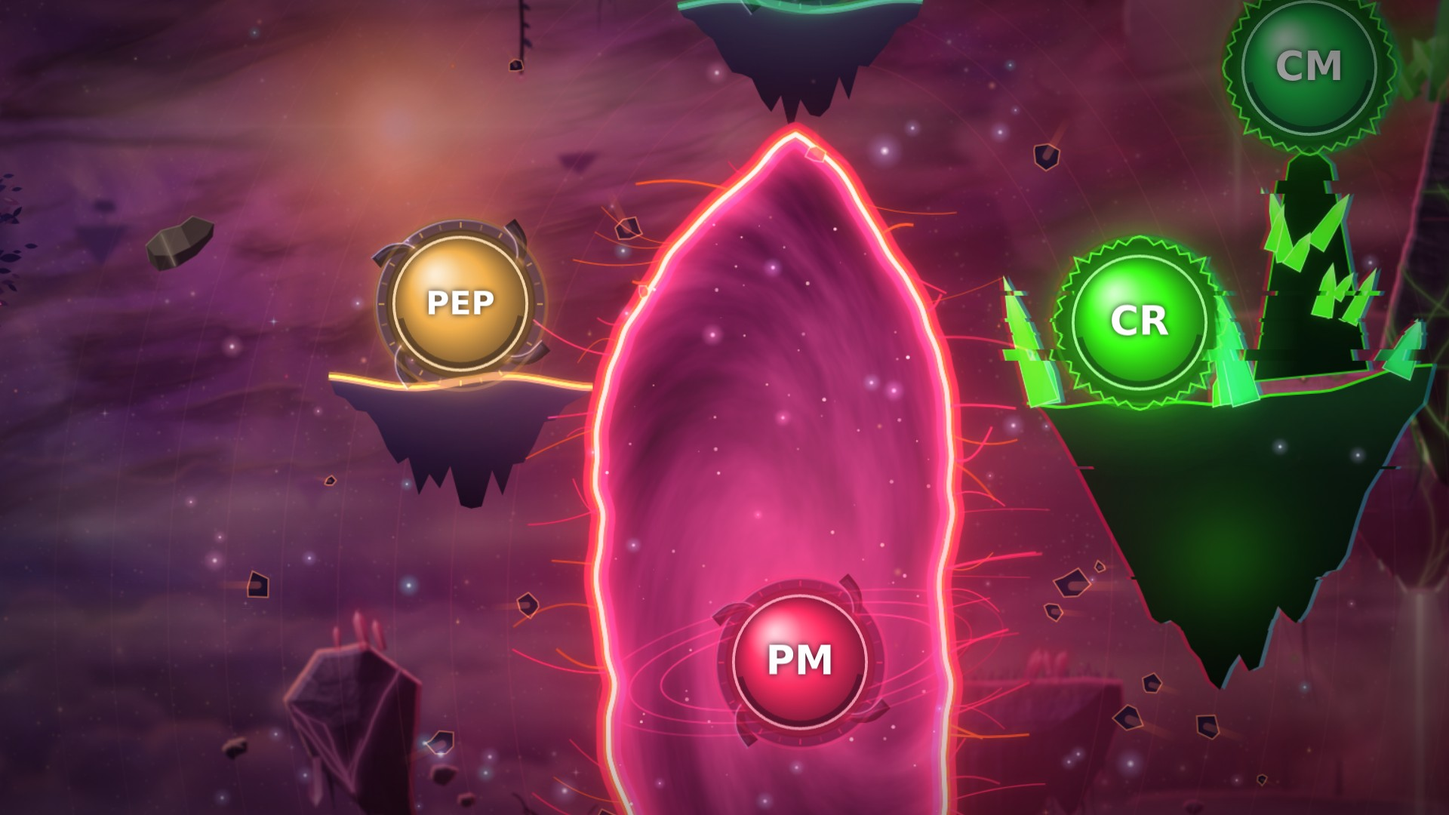
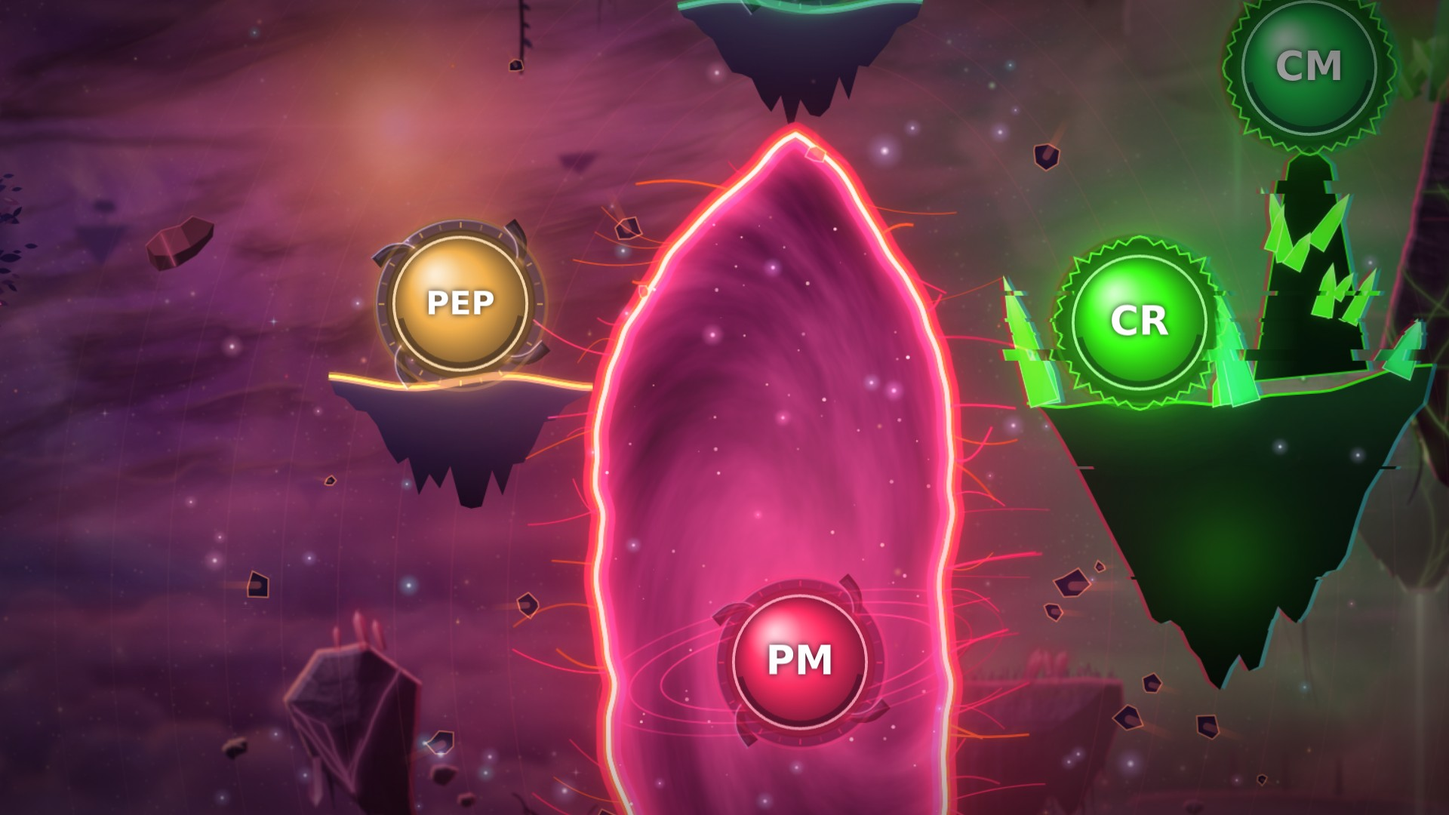
Realm art: mid-layer fix, refreshed stills and recorder (work in progress)
Claude-Session: https://claude.ai/code/session_017gaz6EFqYxd9JEx6jAR1Xy

diff --git a/milestone-tree/art/layers/mid.js b/milestone-tree/art/layers/mid.js
@@ -1,8 +1,10 @@
 // Parallax depth 3, `mid` (f = 0.45): the layer that sells the depth. Seven detailed floating islands (lit rock
 // undersides, hanging roots, glowing crystal seams, tiny trees) pour luminous light-falls from the lightfall sprite
-// anchors, over horizontal mist bands at 55-95 % of the height. The rift side (right) is cracked with crimson seams;
-// the island nearest the corrupted outcrop grows green glitch crystals. The trunk band and the rift cluster (the
-// hard keep-clear zones) hold mist only.
+// anchors, over horizontal mist bands at 55-95 % of the height. No two share a silhouette: a broken twin pouring from
+// its cleft, a natural arch pouring from its keystone, a ruined colonnade under a rock needle, three plain slabs, and
+// the corrupted island. The rift side (right) is cracked with crimson seams; the corrupted island sits where the
+// clamped east-limit cameras see it (under the outcrop's tip), lit green from above. The trunk band and the rift
+// cluster (the hard keep-clear zones) hold mist only.
 // Transparent. Painted at full local size 3360x2160, output at res.HIGH 0.75 -> 2520x1620 (realm.json layers[mid]).
 (function () {
   // ================================================================ ISLAND KIT (begin)
@@ -646,90 +648,294 @@
 
   // Island specs. xL/xR/top: the grassy top line; lobes: hanging cones {x, y tip, w half-width}; the fall anchor is
   // the lip (a flat notch) at the lightfall instance. Positions keep every island out of the hard zones.
+  // Three islands keep the plain slab (A, D, B: far up or half behind the rift). The four the camera sees most each
+  // break it, so the layer never reads as one stamp repeated:
+  //   F  broken twin: a crack splits the slab from the top, the right half has slumped, and the light pours out of the
+  //      cleft between two hanging fangs instead of off a lobe tip
+  //   C  natural arch: the light pours from the keystone down through the arch
+  //   E  a ruined colonnade at the foot of a rock needle, a gold relic light between the columns; the fall spills off
+  //      the island's right edge
+  //   G  the corrupted island (below)
+  // G is placed for the cameras that actually see the corrupt biome. The camera cannot centre on the outcrop: at the
+  // hard east limit it stops at (2880, y, z 1) and (3072, y, z 1.25) on 1920x1080 and (3294, y, z 1.25) on 1366x768,
+  // where this layer shows local x <= 3072 (1920) and <= 2920 (1366), and the world outcrop covers the right third of
+  // the screen. Projected with camera.js localToScreen, the band x 2570-2900, y 1330-1440 is clear of the world at
+  // (2880, 1250, z 1), (2880, 1480, z 1), (3072, 1320, z 1.25) and (3294, 1320, z 1.25), right under the outcrop's
+  // lower tip. G1, the corrupted main mass, fills that band; G2, a raised block (the tall step), holds the fall-6 lip at
+  // its left edge and sits off screen there. The green is light, not paint: dark rock with a green rim on the edges
+  // that face the outcrop (up), green veins and crystals, and debris the corruption lifts off the top.
   const ISLES = [
-    { id: 'F', fall: 5, xL: 235, xR: 915, top: 40, tilt: 0.02, thick: 46, seed: 301, lobes: [{ x: 400, y: 250, w: 165 }, { x: 790, y: 236, w: 125 }, { x: 520, y: 290, w: 170 }],
-      crystals: [[860, 5, 40, [95, 224, 255]]], trees: [[420, 90], [640, 60]], roots: 16 },
+    { id: 'F', fall: 5, xL: 235, xR: 915, top: 40, tilt: 0.02, thick: 46, seed: 301, lobes: [{ x: 330, y: 238, w: 96 }, { x: 852, y: 226, w: 66 }, { x: 440, y: 200, w: 120 }],
+      shape: 'twin', crack: 600, crystals: [[860, 5, 40, [95, 224, 255]], [300, 3, 26, [179, 92, 255]]], trees: [[420, 92], [700, 62, null, 0.12]], roots: 16 },
     { id: 'A', fall: 0, xL: 1712, xR: 2120, top: 20, tilt: -0.01, thick: 40, seed: 302, lobes: [{ x: 1795, y: 176, w: 95 }, { x: 2045, y: 190, w: 85 }],
       crystals: [[2050, 4, 40, [95, 224, 255]]], trees: [[1790, 70]], roots: 10 },
     { id: 'D', fall: 3, xL: 2540, xR: 3130, top: 120, tilt: -0.03, thick: 44, seed: 303, lobes: [{ x: 2655, y: 310, w: 115 }, { x: 2995, y: 336, w: 135 }],
       crystals: [[2640, 5, 48, [232, 70, 190]], [3070, 3, 30, [255, 46, 99]]], trees: [[2880, 84, 'dead']], roots: 14 },
-    { id: 'C', fall: 2, xL: 100, xR: 720, top: 935, tilt: 0.03, thick: 50, seed: 304, lobes: [{ x: 225, y: 1140, w: 125 }, { x: 570, y: 1168, w: 145 }],
-      crystals: [[250, 5, 58, [179, 92, 255]], [640, 3, 34, [95, 224, 255]]], trees: [[430, 104], [520, 66], [160, 54]], roots: 16 },
+    { id: 'C', fall: 2, xL: 118, xR: 700, top: 1085, tilt: 0.02, thick: 58, seed: 304, shape: 'arch',
+      lobes: [{ x: 196, y: 1478, w: 44, p: 1.6 }, { x: 262, y: 1446, w: 30, p: 1.7 }, { x: 548, y: 1512, w: 56, p: 1.6 }, { x: 636, y: 1450, w: 34, p: 1.7 }],
+      crystals: [[196, 5, 50, [179, 92, 255]], [660, 3, 30, [95, 224, 255]]], trees: [[560, 104], [626, 62], [372, 50]], roots: 16 },
     { id: 'E', fall: 4, xL: 780, xR: 1212, top: 1506, tilt: 0.09, thick: 40, seed: 305, lobes: [{ x: 960, y: 1760, w: 175, p: 1.05 }, { x: 850, y: 1660, w: 70 }], anchorSlope: 1.6,
-      crystals: [[880, 4, 42, [255, 201, 60]]], trees: [[1000, 88], [1085, 52]], roots: 12 },
-    { id: 'B', fall: 1, xL: 2195, xR: 2680, top: 1420, tilt: -0.085, thick: 40, seed: 306, lobes: [{ x: 2470, y: 1700, w: 190 }, { x: 2615, y: 1580, w: 80 }],
-      crystals: [[2575, 6, 54, [255, 46, 99]], [2380, 3, 30, [232, 70, 190]]], trees: [[2470, 76, 'dead']], roots: 14 },
-    { id: 'G', fall: 6, xL: 2775, xR: 3345, top: 1040, tilt: 0.02, thick: 46, seed: 307, corrupt: true, lobes: [{ x: 2905, y: 1240, w: 115 }, { x: 3220, y: 1272, w: 135 }],
-      crystals: [[2900, 6, 72, [57, 255, 20]], [3250, 4, 46, [31, 191, 74]]], trees: [[3110, 66, 'dead']], roots: 14 },
+      needle: { x: 822, w: 76, h: 350, lean: -0.05 }, ruin: true, crystals: [], trees: [[1122, 50]], roots: 12 },
+    { id: 'B', fall: 1, xL: 2150, xR: 2560, top: 1420, tilt: -0.075, thick: 40, seed: 306, lobes: [{ x: 2385, y: 1690, w: 160 }, { x: 2512, y: 1585, w: 62 }],
+      crystals: [[2488, 6, 52, [255, 46, 99]], [2350, 3, 30, [232, 70, 190]]], trees: [[2420, 76, 'dead']], roots: 14 },
+    { id: 'G', fall: 6, seed: 307, corrupt: true, xL: 2600, xR: 3330, roots: 16,
+      parts: [
+        { xL: 2600, xR: 2968, top: 1300, tilt: -0.045, thick: 38, jag: 1.5, anchor: false,
+          lobes: [{ x: 2685, y: 1478, w: 92, p: 1.15 }, { x: 2828, y: 1532, w: 118, p: 1.2 }, { x: 2925, y: 1425, w: 42, p: 1.6 }] },
+        { xL: 2930, xR: 3330, top: 1172, tilt: -0.02, thick: 46, seed: 317, anchor: true, anchorSlope: 1.4, droop: 0.02,
+          lobes: [{ x: 2962, y: 1336, w: 46, p: 0.35 }, { x: 3165, y: 1420, w: 125 }, { x: 3292, y: 1335, w: 55 }] }],
+      crystals: [[2664, 5, 44, [57, 255, 20]], [2792, 7, 66, [57, 255, 20]], [2904, 4, 36, [31, 191, 74]], [3232, 4, 42, [57, 255, 20]], [3000, 3, 28, [255, 46, 99]]],
+      trees: [[3120, 70, 'dead']],
+      fragments: [[2698, 1226, 34, 0.35], [2772, 1180, 22, -0.25], [2846, 1216, 15, 0.6], [2735, 1148, 10, 0.1]] },
   ];
 
+  // An island() outline with its top and underside remapped: fTop / fUnder (x, y) -> y (either may be null).
+  function reshape(S, fTop, fUnder) {
+    const topY = fTop ? (x => fTop(x, S.topY(x))) : S.topY;
+    const top = S.top.map(([x]) => [x, topY(x)]);
+    const under = S.under.map(([x, y]) => [x, Math.max(topY(x) + 0.5, fUnder ? fUnder(x, y) : y)]);
+    const underY = x => Math.max(topY(x) + 0.5, fUnder ? fUnder(x, S.underY(x)) : S.underY(x));
+    return { ...S, poly: [...top, ...under], top, under, topY, underY };
+  }
+  // F: a crack from the top at `crack` splits the slab, the right half has slumped; under the lip two fangs hang and
+  // the cleft between them opens downward (walls sloping out), so the light pours from inside the island
+  function twinShape(I, F, S) {
+    const XC = I.crack, nh = Math.max(14, F.s * 0.3), n = makeNoise(I.seed + 40);
+    const slump = x => x > XC ? 7 + (x - XC) * 0.06 : 0;
+    const fTop = (x, y) => y + slump(x) + 170 * Math.pow(Math.max(0, 1 - Math.abs(x - XC) / 30), 1.25);
+    const fUnder = (x, y) => {
+      const d = Math.abs(x - F.x); if (d <= nh) return F.y;
+      y += slump(x);
+      if (d < 175) y = Math.max(y, F.y + 175 * (1 - Math.pow(d / 175, 2.4)) + 16 * n(x / 17, 2.2) * (d / 175));
+      return Math.min(y, F.y + (d - nh) * 1.45 + 6 * n(x / 9, 7.1));
+    };
+    return reshape(S, fTop, fUnder);
+  }
+  // C: two fat legs under the slab and an arch cut between them; the keystone is the lip
+  function archShape(I, F, S) {
+    const nh = Math.max(14, F.s * 0.3), R = 92, RV = 128, n = makeNoise(I.seed + 41), base = I.top + I.thick + 4;
+    const leg = (x, x0, x1, yb) => { if (x <= x0 || x >= x1) return -1e9; const u = Math.abs(2 * (x - x0) / (x1 - x0) - 1); return yb - (yb - base) * Math.pow(u, 3.2); };
+    const fUnder = (x, y) => {
+      const d = Math.abs(x - F.x); if (d <= nh) return F.y;
+      y = Math.max(y, leg(x, 122, 420, 1392 + 22 * fbm(n, x / 38, 3.3, 2)), leg(x, 330, 694, 1420 + 24 * fbm(n, x / 38, 5.1, 2)));
+      if (d < R) y = Math.min(y, F.y + RV * (1 - Math.sqrt(1 - (d / R) * (d / R))) + 3 * n(x / 7, 1.1));
+      return y;
+    };
+    return reshape(S, null, fUnder);
+  }
+  // a rock needle rising from (bx, by): ledges on the flanks, a crooked tip
+  function needle(bx, by, w, h, lean, seed) {
+    const r = rng(seed), L = [], Rt = [], N = 14;
+    for (let i = 0; i < N; i++) {
+      const t = i / N, y = by - h * t, cx = bx + lean * h * t * t + (t > 0.8 ? (t - 0.8) * h * 0.12 : 0);
+      const half = (w / 2) * Math.pow(1 - t, 0.8) * (0.9 + 0.2 * r()) + 2;
+      const lk = i % 4 === 1 ? w * 0.16 * r() : 0, rk = i % 5 === 3 ? w * 0.13 * r() : 0;
+      L.push([cx - half - lk, y + (r() - 0.5) * 5]); Rt.push([cx + half + rk, y + (r() - 0.5) * 7]);
+    }
+    const tip = [bx + lean * h + h * 0.024, by - h];
+    return [...L, tip, ...Rt.reverse()];
+  }
+  // a classical column: plinth, drum shaft, capital; a broken one ends in a jagged break
+  function columnPoly(x, yb, h, w, seed, broken) {
+    const r = rng(seed), hw = w / 2, pl = hw * 1.35, ca = hw * 1.3, yt = yb - h;
+    const left = [[x - pl, yb + 10], [x - pl, yb - 5], [x - hw, yb - 8]], right = [[x + hw, yb - 8], [x + pl, yb - 5], [x + pl, yb + 10]];
+    let top;
+    if (broken) { top = []; for (let i = 0; i <= 5; i++) top.push([x - hw + (2 * hw * i) / 5, yt + (i === 0 || i === 5 ? 4 : 0) + (r() - 0.35) * w * 0.8]); }
+    else top = [[x - hw, yt + 9], [x - ca, yt + 7], [x - ca, yt], [x + ca, yt], [x + ca, yt + 7], [x + hw, yt + 9]];
+    return [...left, ...top, ...right];
+  }
+  const rot = (pts, cx, cy, a) => pts.map(([x, y]) => [cx + (x - cx) * Math.cos(a) - (y - cy) * Math.sin(a), cy + (x - cx) * Math.sin(a) + (y - cy) * Math.cos(a)]);
+  const STONE = { dark: [10, 6, 24], base: [132, 110, 186], rim: [255, 226, 190], key: [255, 214, 150], bounce: [120, 90, 230] };
+  // E: a broken colonnade (two standing columns under a cracked lintel, a snapped column, a stump, a fallen drum) and a
+  // gold relic crystal hovering in the doorway, its light on the column faces
+  function ruin(b, e, chk, S, I) {
+    const stone = (poly, seed, extra = {}) => {
+      const M = K.mass({ poly, seed, pad: 6, bevel: 3, dome: 10, domeK: 0.5, bump: 1.5, bumpScale: 12, facet: 22, facetTilt: 0.25, crackW: 1.2, crack: 0.25,
+        strata: { period: 17, lw: 0.08, dark: 0.45, warp: 1, wl: 60, tilt: 0 }, pal: STONE, amb: 0.1, gamma: 1.4, rimW: 2, rimK: 0.8, keyK: 0.6, bounceK: 0.35, ao: 0.3,
+        riftW: () => 0, warm: 1, warmW: 2.5, ...extra });
+      b.drawImage(M.c, M.x, M.y); if (M.e) e.drawImage(M.e, M.x, M.y); chk.drawImage(M.c, M.x, M.y);
+      return M;
+    };
+    const yb = x => S.topY(x) + 2;
+    const cols = [[902, 98, 17, false], [956, 112, 17, false], [1016, 60, 16, true], [1062, 30, 16, true]];
+    cols.forEach(([x, h, w, br], k) => stone(columnPoly(x, yb(x), h, w, I.seed * 11 + k, br), I.seed * 13 + k));
+    // lintel over the first two, cracked through and sagging at its right end
+    const ly = yb(902) - 112, lint = [[884, ly - 1], [930, ly - 3], [933, ly + 9], [886, ly + 11]], lint2 = rot([[936, ly - 4], [986, ly - 6], [986, ly + 7], [937, ly + 8]], 936, ly, 0.11);
+    stone(lint, I.seed * 17); stone(lint2, I.seed * 17 + 1);
+    // a fallen drum and a toppled shaft lying on the grass
+    stone(rot([[1080, yb(1080) - 12], [1128, yb(1128) - 16], [1130, yb(1130) - 2], [1082, yb(1082) + 2]], 1100, yb(1100), -0.05), I.seed * 19);
+    stone(rot([[846, yb(846) - 10], [870, yb(870) - 12], [872, yb(872)], [848, yb(848) + 1]], 860, yb(860), 0.3), I.seed * 19 + 1);
+    // the relic: a gold crystal hovering in the doorway, and its light on the inner column faces and the ground
+    const rx = 929, ry = yb(929) - 58;
+    blob(e, rx, ry, 46, [255, 201, 60], 0.28); blob(e, rx, yb(929) - 4, 30, [255, 190, 90], 0.22);
+    K.crystal(b, e, rx, ry + 12, 24, 9, 0, [255, 214, 120], 1, 1);
+    K.crystal(b, e, rx - 7, ry + 10, 12, 5, -0.5, [255, 201, 60], 1, 0.7); K.crystal(b, e, rx + 7, ry + 10, 13, 5, 0.45, [255, 201, 60], 1, 0.7);
+    for (const [x, s] of [[911, 1], [947, -1]]) { const g = e.createLinearGradient(x, 0, x + s * 10, 0); g.addColorStop(0, col([255, 201, 90], 0.5)); g.addColorStop(1, col([255, 201, 90], 0)); e.fillStyle = g; e.fillRect(Math.min(x, x + s * 10), ry - 40, 10, 86); }
+  }
+
+  // emissive rim for a light other than the key light (the outcrop's green from above, the rift's crimson from the
+  // left): mask pixels whose neighbour toward the light lies outside the silhouette. Bright on dark reads as light.
+  function dirRim(e, M, dir, w, color, k, o = {}) {
+    const { A } = M, W2 = M.w, H2 = M.h, dl = Math.hypot(dir[0], dir[1]), ux = dir[0] / dl, uy = dir[1] / dl, n = makeNoise(o.seed || 5);
+    const at = (x, y) => { x = Math.round(x); y = Math.round(y); return x < 0 || y < 0 || x >= W2 || y >= H2 ? 0 : A[y * W2 + x]; };
+    const im = new ImageData(W2, H2), dd = im.data;
+    for (let y = 0; y < H2; y++) for (let x = 0; x < W2; x++) {
+      const a = A[y * W2 + x]; if (a <= 0) continue;
+      let v = a * (0.7 * (1 - at(x + ux * w, y + uy * w)) + 0.3 * (1 - at(x + ux * w * 2.6, y + uy * w * 2.6)));
+      if (v <= 0.01) continue;
+      if (o.region) v *= o.region(x + M.x, y + M.y);
+      v *= 0.72 + 0.28 * (0.5 + 0.5 * n((x + M.x) / 21, (y + M.y) / 21));
+      const i = (y * W2 + x) * 4; dd[i] = color[0]; dd[i + 1] = color[1]; dd[i + 2] = color[2]; dd[i + 3] = clamp(v * k) * 255;
+    }
+    const c = mk(W2, H2); cx2(c).putImageData(im, 0, 0);
+    e.save(); e.globalCompositeOperation = 'lighter'; e.drawImage(c, M.x, M.y);
+    if (o.glow) { e.filter = `blur(${o.glow}px)`; e.globalAlpha = o.glowK || 0.6; e.drawImage(c, M.x, M.y); }
+    e.restore();
+  }
+  // a fracture splitting the rock open: a dark gap (base) that tapers upward, green light inside it (emissive)
+  function fracture(b, e, clip, pts, w) {
+    const S2 = spline(pts.map(([x, y], i) => [x, y, w * (1 - (i / (pts.length - 1)) * 0.85)]), 8), O = outline(S2);
+    b.save(); poly(b, clip); b.clip(); poly(b, O); b.fillStyle = col([3, 2, 8], 0.95); b.fill(); b.restore();
+    e.save(); poly(e, clip); e.clip();
+    e.filter = 'blur(7px)'; poly(e, O); e.fillStyle = col(GREEN, 0.55); e.fill(); e.lineWidth = 6; e.strokeStyle = col(GREEN, 0.35); e.stroke();
+    e.filter = 'none'; const O2 = outline(S2.map(p => ({ ...p, w: p.w * 0.35 }))); poly(e, O2); e.fillStyle = col([190, 255, 200], 0.95); e.fill();
+    e.restore();
+  }
+  const GREEN = [57, 255, 20], GREEN2 = [31, 191, 74], UP_OUTCROP = [0.18, -1]; // the outcrop's light in this layer comes from above
+
   function paintIsland(I, b, e, chk) {
-    const F = fall(I.fall), rw = riftW((I.xL + I.xR) / 2), R = rng(I.seed * 7 + 1);
-    const S = K.island({ xL: I.xL, xR: I.xR, top: I.top, tilt: I.tilt, thick: I.thick, seed: I.seed, lobes: I.lobes, droop: 0.08,
-      anchor: { x: F.x, y: F.y, nh: Math.max(14, F.s * 0.3), slope: I.anchorSlope || 1.3 } });
-    const yTop = Math.min(...S.top.map(p => p[1])), yBot = Math.max(...S.under.map(p => p[1]));
-    const corrupt = !!I.corrupt;
+    const F = I.fall != null ? fall(I.fall) : null, rw = riftW((I.xL + I.xR) / 2), R = rng(I.seed * 7 + 1), corrupt = !!I.corrupt;
+    const shapes = (I.parts || [I]).map(P => {
+      const withLip = F && P.anchor !== false;
+      let S = K.island({ xL: P.xL, xR: P.xR, top: P.top, tilt: P.tilt, thick: P.thick, seed: P.seed || I.seed, lobes: P.lobes, droop: P.droop == null ? 0.08 : P.droop, jag: P.jag,
+        anchor: withLip ? { x: F.x, y: F.y, nh: Math.max(14, F.s * 0.3), slope: P.anchorSlope || I.anchorSlope || 1.3 } : null });
+      if (I.shape === 'twin') S = twinShape(I, F, S);
+      if (I.shape === 'arch') S = archShape(I, F, S);
+      return S;
+    });
+    // top / underside lookups over every part (the higher top where parts overlap)
+    const topY = x => { let y = 1e9; for (const S of shapes) if (x >= S.top[0][0] - 0.5 && x <= S.top[S.top.length - 1][0] + 0.5) y = Math.min(y, S.topY(x)); return y < 1e9 ? y : shapes[0].topY(x); };
+    const yTop = Math.min(...shapes.map(S => Math.min(...S.top.map(p => p[1])))), yBot = Math.max(...shapes.map(S => Math.max(...S.under.map(p => p[1]))));
+    const polys = shapes.map(S => S.poly);
+    let spire = null;
+    if (I.needle) { const Nd = I.needle; spire = needle(Nd.x, topY(Nd.x) + 22, Nd.w, Nd.h, Nd.lean, I.seed + 90); polys.push(spire); }
+    const pal = corrupt ? { dark: [3, 2, 9], base: [56, 34, 78], soil: [38, 24, 52], moss: [50, 110, 64], mossRift: [50, 110, 64], rim: [190, 140, 180], key: [255, 206, 140], bounce: [90, 50, 130] }
+      : { dark: [6, 3, 18], base: [100, 58, 196], soil: [78, 42, 104], moss: rw > 0.5 ? [160, 80, 180] : [118, 96, 235], mossRift: [180, 70, 150], rim: [245, 212, 205], key: [255, 206, 140], bounce: [120, 80, 230] };
+    const veins = corrupt ? { th: 0.12, patch: 150, scale: 55, width: 0.03, alpha: 0.8, glow: 3, glowK: 0.8, color: () => GREEN, region: (X, Y, yn) => (X < 2975 ? 1 : 0.4) * smooth(0.12, 0.4, yn) } : null;
     const M = K.mass({
-      poly: S.poly, seed: I.seed, pad: 12, openTop: true, openTopMax: 70, bevel: 9, dome: 110, domeK: 0.8, bump: 4, bumpScale: 30, flutes: 10, facet: 120, facetTilt: 0.16, crackW: 1.5, crack: 0.12,
+      polys, poly: shapes[0].poly, seed: I.seed, pad: 12, openTop: true, openTopMax: 70, bevel: 9, dome: 110, domeK: 0.8, bump: 4, bumpScale: 30, flutes: 10, facet: corrupt ? 70 : 120, facetTilt: corrupt ? 0.3 : 0.16, crackW: 1.5, crack: corrupt ? 0.3 : 0.12,
       cyl: { cx: (I.xL + I.xR) / 2, hw: (I.xR - I.xL) / 2, k: 0.55, down: 0.5 },
-      strata: { period: 22, lw: 0.1, dark: 0.3, warp: 8, wl: 110, tilt: 0.03 },
-      pal: { dark: [6, 3, 18], base: [100, 58, 196], soil: [78, 42, 104], moss: rw > 0.5 ? [160, 80, 180] : [118, 96, 235], mossRift: [180, 70, 150], rim: [245, 212, 205], key: [255, 206, 140], bounce: [120, 80, 230] },
-      soil: 30, moss: 12, amb: 0.07, gamma: 1.5, rimW: 3, rimK: 1.0, keyK: 0.75, bounceK: 0.5, ao: 0.55, yTop, yBot, riftW: (X) => riftW(X), riftRimK: 0.7, ...WARM,
+      strata: { period: 22, lw: 0.1, dark: 0.3, warp: 8, wl: 110, tilt: 0.03 }, pal, veins,
+      soil: 30, moss: 12, amb: corrupt ? 0.05 : 0.07, gamma: 1.5, rimW: 3, rimK: corrupt ? 0.35 : 1.0, keyK: corrupt ? 0.32 : 0.75, bounceK: 0.5, ao: 0.55, yTop, yBot,
+      riftW: (X) => riftW(X), riftRimK: corrupt ? 0.2 : 0.7, ...WARM, ...(corrupt ? { warm: 0.4 } : {}),
     });
     b.drawImage(M.c, M.x, M.y); if (M.e) e.drawImage(M.e, M.x, M.y); chk.drawImage(M.c, M.x, M.y);
+    if (corrupt) {
+      // the outcrop's green light on every up-facing edge, the rift's crimson on the left-facing ones
+      dirRim(e, M, UP_OUTCROP, 4, GREEN, 0.95, { glow: 5, glowK: 0.7, seed: I.seed });
+      dirRim(e, M, [-1, -0.25], 3, [255, 46, 99], 0.5, { glow: 3, glowK: 0.5, seed: I.seed + 1 });
+    }
+    if (I.shape === 'arch') { // the fall's light on the arch intrados
+      const nh = Math.max(14, F.s * 0.3), c2 = fallCol(F.x, false);
+      e.save(); poly(e, shapes[0].poly); e.clip(); e.filter = 'blur(6px)'; e.strokeStyle = col(c2, 0.55); e.lineWidth = 9; e.beginPath();
+      for (let d = -92; d <= 92; d += 2) { const x = F.x + d, y = Math.abs(d) <= nh ? F.y : F.y + 128 * (1 - Math.sqrt(1 - (d / 92) * (d / 92))); d === -92 ? e.moveTo(x, y + 60) : e.lineTo(x, y); }
+      e.lineTo(F.x + 92, F.y + 190); e.stroke(); e.restore();
+    }
+    if (I.shape === 'twin') { // light leaking up the crack from the lip
+      const XC = I.crack; e.save(); e.filter = 'blur(4px)';
+      const g = e.createLinearGradient(0, topY(XC - 30), 0, F.y); g.addColorStop(0, col([205, 180, 255], 0)); g.addColorStop(0.5, col([205, 180, 255], 0.35)); g.addColorStop(1, col([222, 204, 255], 0.6));
+      e.strokeStyle = g; e.lineWidth = 4; e.beginPath(); e.moveTo(XC, shapes[0].topY(XC) - 4); e.lineTo(XC - 2, (shapes[0].topY(XC) + F.y) / 2); e.lineTo(F.x, F.y); e.stroke(); e.restore();
+    }
     // crystal seams spreading up from the lip into the rock: the light comes from inside the island
-    const sc = corrupt ? [57, 255, 20] : mixc([200, 130, 255], [255, 60, 110], rw);
-    K.seams(b, e, S.poly, F.x, F.y - 6, { seed: I.seed + 77, n: 3, dir: -Math.PI / 2, fan: 1.6, len: (F.y - S.topY(F.x)) * 0.55, w: 1.6, color: sc, glow: 3, a: 0.7, branch: 0.06 });
-    if (corrupt) K.seams(b, e, S.poly, I.xL + (I.xR - I.xL) * 0.75, yBot - 30, { seed: I.seed + 78, n: 3, dir: -Math.PI / 2, fan: 1.6, len: 120, w: 1.8, color: [255, 46, 99], glow: 4 });
+    if (F) {
+      const sc = corrupt ? GREEN : mixc([200, 130, 255], [255, 60, 110], rw), shapeL = shapes.find(S => F.x >= S.top[0][0] && F.x <= S.top[S.top.length - 1][0]) || shapes[0];
+      K.seams(b, e, shapeL.poly, F.x, F.y - 6, { seed: I.seed + 77, n: 3, dir: -Math.PI / 2, fan: 1.6, len: (F.y - shapeL.topY(F.x)) * 0.55, w: 1.6, color: sc, glow: 3, a: 0.7, branch: 0.06 });
+    }
+    if (corrupt) {
+      const S1 = shapes[0], yb1 = Math.max(...S1.under.map(p => p[1]));
+      fracture(b, e, S1.poly, [[2833, 1528], [2826, 1490], [2838, 1458], [2818, 1420], [2826, 1392], [2808, 1356], [2814, 1330]], 6);
+      K.seams(b, e, shapes[1].poly, 3170, 1400, { seed: I.seed + 79, n: 3, dir: -Math.PI / 2, fan: 1.6, len: 120, w: 1.6, color: [255, 46, 99], glow: 4 });
+    }
     // hanging roots and vines from the underside (never across the fall)
-    const under = S.under.filter(p => Math.abs(p[0] - F.x) > F.s * 1.1 && p[1] - S.topY(p[0]) > I.thick * 0.9);
+    const under = [].concat(...shapes.map(S => S.under.filter(p => (!F || Math.abs(p[0] - F.x) > F.s * 1.1) && p[1] - S.topY(p[0]) > (I.thick || 40) * 0.9)));
     for (let k = 0; k < I.roots; k++) {
       const p = under[Math.floor(R() * under.length)]; if (!p) break;
-      const depth = p[1] - S.topY(p[0]), len = 24 + R() * (30 + depth * 0.8), wd = 2 + R() * 3.5;
-      const bulb = R() < 0.3 ? (corrupt ? [57, 255, 20] : mixc([120, 220, 255], [255, 80, 130], rw)) : null;
-      const ro = { twigs: R() < 0.5 ? 1 : 0, bulb, color: [12, 7, 26], rim: mixc([170, 140, 255], [255, 90, 130], rw * 0.6) };
+      const depth = p[1] - topY(p[0]), len = 24 + R() * (30 + depth * 0.8), wd = 2 + R() * 3.5;
+      const bulb = R() < (corrupt ? 0.45 : 0.3) ? (corrupt ? GREEN : mixc([120, 220, 255], [255, 80, 130], rw)) : null;
+      const ro = { twigs: R() < 0.5 ? 1 : 0, bulb, color: [12, 7, 26], rim: corrupt ? [120, 255, 150] : mixc([170, 140, 255], [255, 90, 130], rw * 0.6) };
       K.root(b, e, p[0], p[1] - 5, len, wd, I.seed * 31 + k, ro); K.root(chk, null, p[0], p[1] - 5, len, wd, I.seed * 31 + k, ro);
-      if (R() < 0.3) { const q = under[Math.floor(R() * under.length)]; K.vine(b, e, q[0], q[1] - 4, 50 + R() * 90, I.seed * 57 + k, { w: 1.5, leafLen: 8, leaf: [30, 18, 60], bud: R() < 0.5 ? (rw > 0.5 ? [255, 90, 150] : [150, 230, 255]) : null }); }
+      if (R() < 0.3) { const q = under[Math.floor(R() * under.length)]; K.vine(b, e, q[0], q[1] - 4, 50 + R() * 90, I.seed * 57 + k, { w: 1.5, leafLen: 8, leaf: [30, 18, 60], bud: R() < 0.5 ? (corrupt ? GREEN : rw > 0.5 ? [255, 90, 150] : [150, 230, 255]) : null }); }
     }
     // small crystals flanking the lip (the light's source), angled away from the fall
-    const fc = corrupt ? [110, 255, 140] : mixc([200, 160, 255], [255, 90, 150], rw);
-    for (const side of [-1, 1]) for (let k = 0; k < 2; k++) {
-      const x = F.x + side * (F.s * (0.42 + k * 0.28) + R() * 6), y = S.underY(x) - 4;
-      K.crystal(b, e, x, y, 10 + R() * 16 - k * 3, 4 + R() * 3, Math.PI + side * (0.35 + R() * 0.3), fc, 1, 0.8);
-    }
-    // top: grass, flowers, glowing moss line, crystals, tiny trees
-    const topPts = S.top.slice(2, -2);
-    for (const [x, n, size, c] of I.crystals) K.crystals(b, e, x, S.topY(x) + 5, n, size, c, I.seed * 13 + x, { glow: 0.75, fan: corrupt ? 1.4 : 0.9 });
-    for (const [x, h, kind] of I.trees) {
-      const glow = corrupt ? [[57, 255, 20]] : rw > 0.5 ? [[255, 80, 130], [255, 150, 90]] : [[255, 201, 60], [95, 224, 255], [255, 120, 200]];
-      K.tree(b, e, x, S.topY(x) + 3, h, I.seed * 17 + x, { kind, bark: [18, 10, 36], leaf: [40, 26, 84], rim: rw > 0.5 ? [255, 150, 190] : [205, 180, 255], glow });
-    }
-    K.grass(b, e, topPts, I.seed + 5, { density: 1.8, h: 12, color: [50, 32, 100], moss: rw > 0.5 ? [230, 100, 170] : [160, 140, 255], flowers: Math.round((I.xR - I.xL) / 55),
-      flowerCols: corrupt ? [[57, 255, 20], [255, 46, 99]] : rw > 0.5 ? [[255, 80, 140], [255, 150, 90], [232, 70, 190]] : [[255, 120, 200], [120, 230, 255], [255, 220, 120], [190, 140, 255]],
-      mossLine: rw > 0.5 ? [255, 110, 170] : [175, 150, 255], mossA: 0.8, mossDy: 5 });
-    // corrupted green glitch shards on G: hard slabs with an RGB-split edge, plus scanline glitches
-    if (corrupt) {
-      for (let k = 0; k < 6; k++) {
-        const x = I.xL + 80 + R() * (I.xR - I.xL - 160), y = S.topY(x) + 4, h = 34 + R() * 70, w = 9 + R() * 12, a = (R() - 0.5) * 0.6;
-        const sh = [[-w / 2, 0], [-w / 2, -h * 0.78], [0, -h], [w / 2, -h * 0.7], [w / 2, 0]];
-        b.save(); b.translate(x, y); b.rotate(a);
-        b.save(); b.translate(3, 0); poly(b, sh); b.fillStyle = col([255, 46, 99], 0.5); b.fill(); b.restore();
-        b.save(); b.translate(-3, 0); poly(b, sh); b.fillStyle = col([60, 220, 255], 0.35); b.fill(); b.restore();
-        poly(b, sh); const g = b.createLinearGradient(0, 0, 0, -h); g.addColorStop(0, col([10, 60, 30])); g.addColorStop(1, col([90, 255, 120])); b.fillStyle = g; b.fill();
-        b.restore();
-        e.save(); e.translate(x, y); e.rotate(a); poly(e, sh); e.fillStyle = col([57, 255, 20], 0.3); e.fill(); e.restore();
-        blob(e, x, y - h * 0.6, h * 0.55, [57, 255, 20], 0.16);
+    if (F) {
+      const fc = corrupt ? [110, 255, 140] : mixc([200, 160, 255], [255, 90, 150], rw);
+      const uY = x => { let y = -1e9; for (const S of shapes) if (x >= S.under[S.under.length - 1][0] && x <= S.under[0][0]) y = Math.max(y, S.underY(x)); return y; };
+      for (const side of [-1, 1]) for (let k = 0; k < 2; k++) {
+        const x = F.x + side * (F.s * (0.42 + k * 0.28) + R() * 6), y = uY(x) - 4;
+        if (y < -1e8) continue;
+        K.crystal(b, e, x, y, 10 + R() * 16 - k * 3, 4 + R() * 3, Math.PI + side * (0.35 + R() * 0.3), fc, 1, 0.8);
       }
-      for (let k = 0; k < 6; k++) { const y = yTop + 20 + R() * (yBot - yTop) * 0.6, x = I.xL + R() * (I.xR - I.xL) * 0.8; e.fillStyle = col(R() < 0.6 ? [57, 255, 20] : [255, 46, 99], 0.3); e.fillRect(x, y, 30 + R() * 80, 1.5 + R() * 2.5); }
     }
-    // floating debris around the island
-    for (let k = 0; k < 5; k++) {
-      const side = R() < 0.5 ? -1 : 1, x = (side < 0 ? I.xL : I.xR) + side * (10 + R() * 100), y = I.top + 60 + R() * (yBot - I.top) * 0.8, sz = 8 + R() * 26;
+    // top: ruin, grass, flowers, glowing moss line, crystals, tiny trees
+    if (I.ruin) ruin(b, e, chk, shapes[0], I);
+    for (const [x, n, size, c] of I.crystals) K.crystals(b, e, x, topY(x) + 5, n, size, c, I.seed * 13 + x, { glow: corrupt ? 0.95 : 0.75, fan: corrupt ? 1.4 : 0.9 });
+    for (const [x, h, kind, lean] of I.trees) {
+      const glow = corrupt ? [GREEN] : rw > 0.5 ? [[255, 80, 130], [255, 150, 90]] : [[255, 201, 60], [95, 224, 255], [255, 120, 200]];
+      for (const q of [b, e]) { q.save(); if (lean) { q.translate(x, topY(x) + 3); q.rotate(lean); q.translate(-x, -topY(x) - 3); } }
+      K.tree(b, e, x, topY(x) + 3, h, I.seed * 17 + x, { kind, bark: [18, 10, 36], leaf: [40, 26, 84], rim: rw > 0.5 ? [255, 150, 190] : [205, 180, 255], glow });
+      b.restore(); e.restore();
+    }
+    for (const S of shapes) {
+      const topPts = S.top.slice(2, -2).filter(p => !I.crack || Math.abs(p[0] - I.crack) > 18);
+      K.grass(b, e, topPts, I.seed + 5, { density: 1.8, h: 12, color: corrupt ? [34, 26, 50] : [50, 32, 100], moss: corrupt ? [90, 200, 110] : rw > 0.5 ? [230, 100, 170] : [160, 140, 255], flowers: Math.round((S.top[S.top.length - 1][0] - S.top[0][0]) / 55),
+        flowerCols: corrupt ? [GREEN, [255, 46, 99]] : rw > 0.5 ? [[255, 80, 140], [255, 150, 90], [232, 70, 190]] : [[255, 120, 200], [120, 230, 255], [255, 220, 120], [190, 140, 255]],
+        mossLine: corrupt ? [120, 255, 150] : rw > 0.5 ? [255, 110, 170] : [175, 150, 255], mossA: 0.8, mossDy: 5 });
+    }
+    if (corrupt) paintCorrupt(I, b, e, chk, shapes, topY, R);
+    // floating debris around the island (the corrupted one has its own torn-off fragments)
+    if (!corrupt) for (let k = 0; k < 5; k++) {
+      const side = R() < 0.5 ? -1 : 1, x = (side < 0 ? I.xL : I.xR) + side * (10 + R() * 100), y = yTop + 60 + R() * (yBot - yTop) * 0.8, sz = 8 + R() * 26;
+      if (CFG.hard.some(z => K.inEllipse(x, y, z, sz + 16))) continue; // debris never drifts into a keep-clear zone
       const P = K.rock({ cx: x, cy: y, w: sz * 1.3, h: sz, seed: I.seed * 3 + k, corners: 7, taper: 0.5, jitter: 0.3 });
       const m = K.mass({ poly: P, seed: I.seed * 3 + k, pad: 6, bevel: 4, dome: sz * 0.5, domeK: 0.8, bump: 2, facet: 12, facetTilt: 0.4, pal: { dark: [8, 4, 20], base: [92, 64, 160], rim: [225, 200, 255] }, amb: 0.1, rimW: 2, rimK: 0.9, riftW: X => riftW(X), ...WARM, warmW: 2 });
       b.drawImage(m.c, m.x, m.y); if (m.e) e.drawImage(m.e, m.x, m.y); chk.drawImage(m.c, m.x, m.y);
     }
-    return S;
+    return shapes[0];
+  }
+
+  // G's corruption: green glitch shards (hard slabs with an RGB-split edge) rising from cracks, rock torn off the top
+  // and lifted toward the outcrop, a few scanline glitches, and the light those crystals throw into the air around them
+  function paintCorrupt(I, b, e, chk, shapes, topY, R) {
+    const S1 = shapes[0];
+    for (const [x, y, s, a] of I.fragments) {
+      const P = rot(K.rock({ cx: x, cy: y, w: s * 1.6, h: s, seed: I.seed * 5 + x, corners: 6, taper: 0.25, flat: 0.3, jitter: 0.35, spike: [s * 0.1, s * 0.55] }), x, y, a);
+      const m = K.mass({ poly: P, seed: I.seed * 5 + x, pad: 8, bevel: 4, dome: s * 0.5, domeK: 0.8, bump: 2, facet: 14, facetTilt: 0.45, crack: 0.3,
+        pal: { dark: [5, 3, 12], base: [70, 42, 100], rim: [200, 150, 190] }, amb: 0.06, rimW: 2, rimK: 0.4, riftW: X => riftW(X), riftRimK: 0.2, warm: 0.4, warmW: 2 });
+      b.drawImage(m.c, m.x, m.y); if (m.e) e.drawImage(m.e, m.x, m.y); chk.drawImage(m.c, m.x, m.y);
+      dirRim(e, m, UP_OUTCROP, 3, GREEN, 1, { glow: 4, glowK: 0.8, seed: x });
+      blob(e, x, y + s * 0.2, s * 0.9, GREEN, 0.1);
+      // the torn underside still glows where it broke away
+      e.save(); e.filter = 'blur(2px)'; e.strokeStyle = col([150, 255, 170], 0.7); e.lineWidth = 1.6; e.beginPath(); e.moveTo(x - s * 0.5, y + s * 0.25); e.lineTo(x - s * 0.1, y + s * 0.45); e.lineTo(x + s * 0.35, y + s * 0.3); e.stroke(); e.restore();
+    }
+    // glitch shards on G1 and on the step
+    const xs = [2632, 2718, 2756, 2860, 2934, 2958];
+    xs.forEach((x, k) => {
+      const y = topY(x) + 4, h = (k === 4 ? 70 : 30 + R() * 46), w = 8 + R() * 10, a = (R() - 0.5) * 0.5 + (k === 4 ? -0.25 : 0);
+      const sh = [[-w / 2, 0], [-w / 2, -h * 0.78], [0, -h], [w / 2, -h * 0.7], [w / 2, 0]];
+      b.save(); b.translate(x, y); b.rotate(a);
+      b.save(); b.translate(2.5, 0); poly(b, sh); b.fillStyle = col([255, 46, 99], 0.45); b.fill(); b.restore();
+      b.save(); b.translate(-2.5, 0); poly(b, sh); b.fillStyle = col([60, 220, 255], 0.3); b.fill(); b.restore();
+      poly(b, sh); const g = b.createLinearGradient(0, 0, 0, -h); g.addColorStop(0, col([6, 40, 20])); g.addColorStop(1, col([80, 240, 110])); b.fillStyle = g; b.fill();
+      b.restore();
+      e.save(); e.translate(x, y); e.rotate(a); poly(e, sh); e.fillStyle = col(GREEN, 0.28); e.fill();
+      e.strokeStyle = col([200, 255, 210], 0.8); e.lineWidth = 1.2; e.beginPath(); e.moveTo(-w / 2, -h * 0.78); e.lineTo(0, -h); e.stroke(); e.restore();
+      blob(e, x, y - h * 0.55, h * 0.6, GREEN, 0.12);
+    });
+    // scanline glitches across the corrupted mass
+    const yb1 = Math.max(...S1.under.map(p => p[1]));
+    for (let k = 0; k < 4; k++) { const y = S1.topY(2780) + 10 + R() * (yb1 - S1.topY(2780)) * 0.7, x = 2610 + R() * 300; e.fillStyle = col(R() < 0.65 ? GREEN : [255, 46, 99], 0.28); e.fillRect(x, y, 26 + R() * 70, 1.5 + R() * 2); }
+    // the crystals' light in the air over the island (small and local: the rock itself stays dark)
+    blob(e, 2792, topY(2792) - 34, 120, GREEN, 0.07);
   }
 
   LAYERS.mid = async function () {

diff --git a/milestone-tree/art/preview/record.js b/milestone-tree/art/preview/record.js
@@ -201,7 +201,10 @@ async function recordFrames(browser, base, o) {
   const done = new Promise((res, rej) => { enc.on('error', rej); enc.on('close', c => (c ? rej(new Error('ffmpeg exit ' + c)) : res())); });
   let encErr = null; done.catch(e => { encErr = e; });   // an encoder failure stops the drawing at the next frame
   enc.stdin.on('error', () => {});   // EPIPE if ffmpeg dies: reported through `done`
-  const drained = () => new Promise(r => { enc.stdin.once('drain', r); enc.once('close', r); });   // never waits on a dead encoder
+  const drained = () => new Promise(r => {   // never waits on a dead encoder; both listeners go when either fires
+    const go = () => { enc.stdin.off('drain', go); enc.off('close', go); r(); };
+    enc.stdin.once('drain', go); enc.once('close', go);
+  });
   const still = new Map(STILLS.map(([name, t]) => [Math.round(pathTime(t, o) * o.fps), name]));
   const t0 = Date.now(), ready = new Map(), workers = [];
   let next = 0, drawn = 0;
